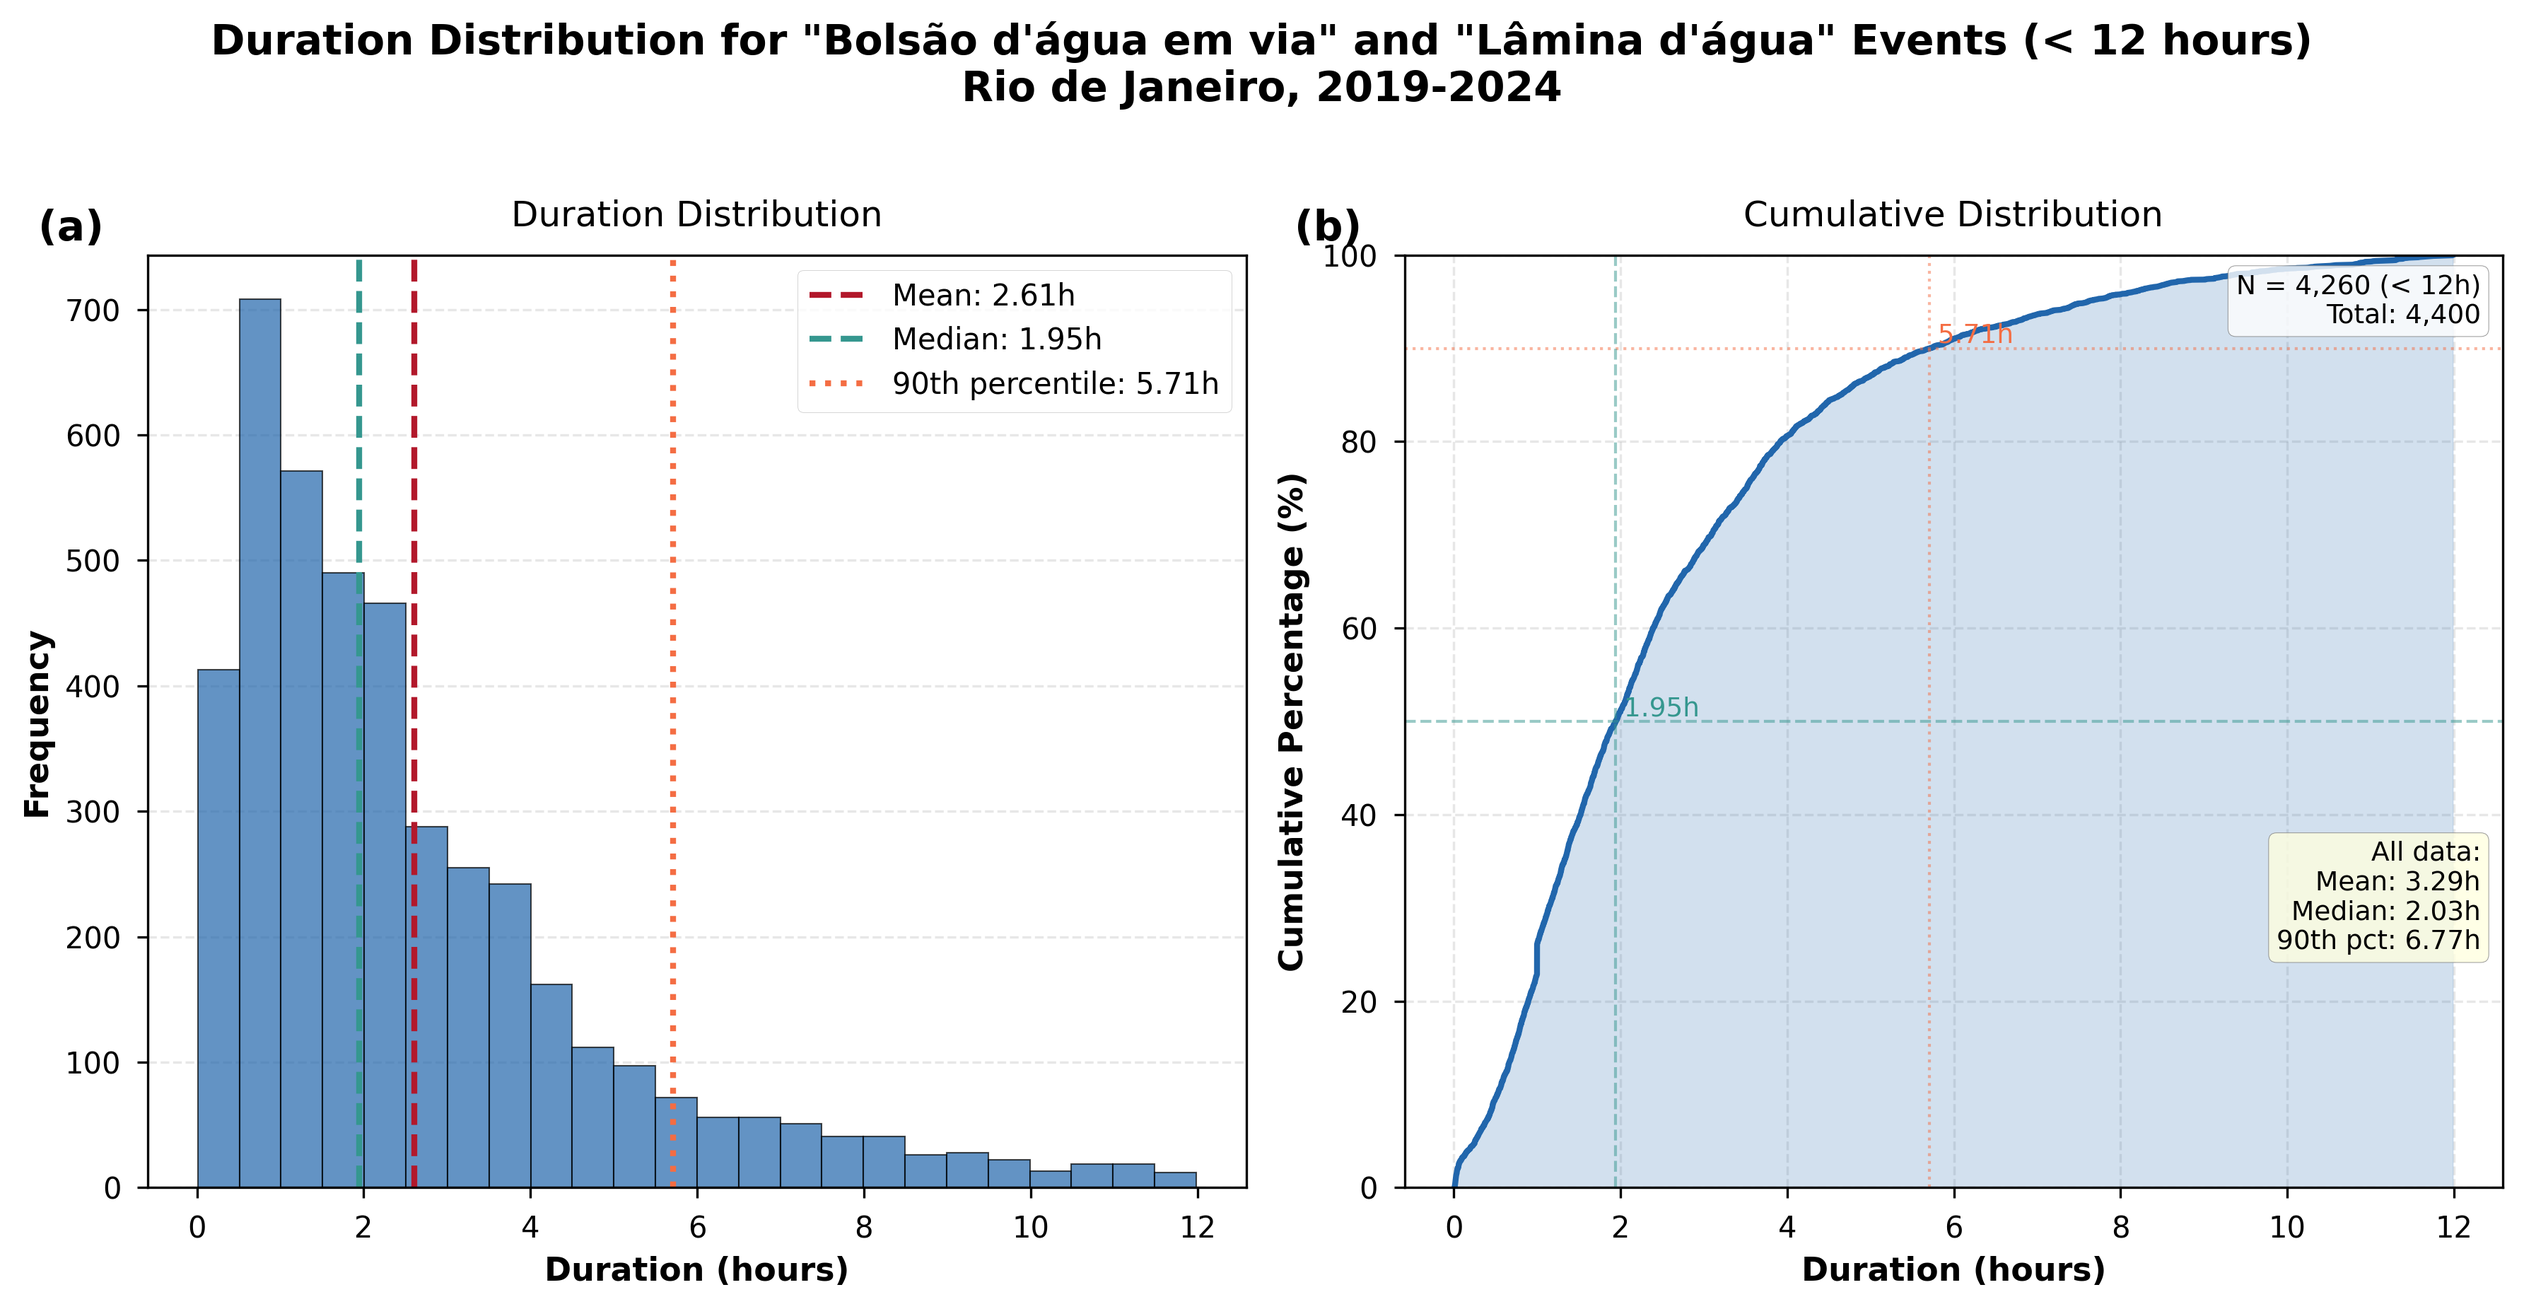
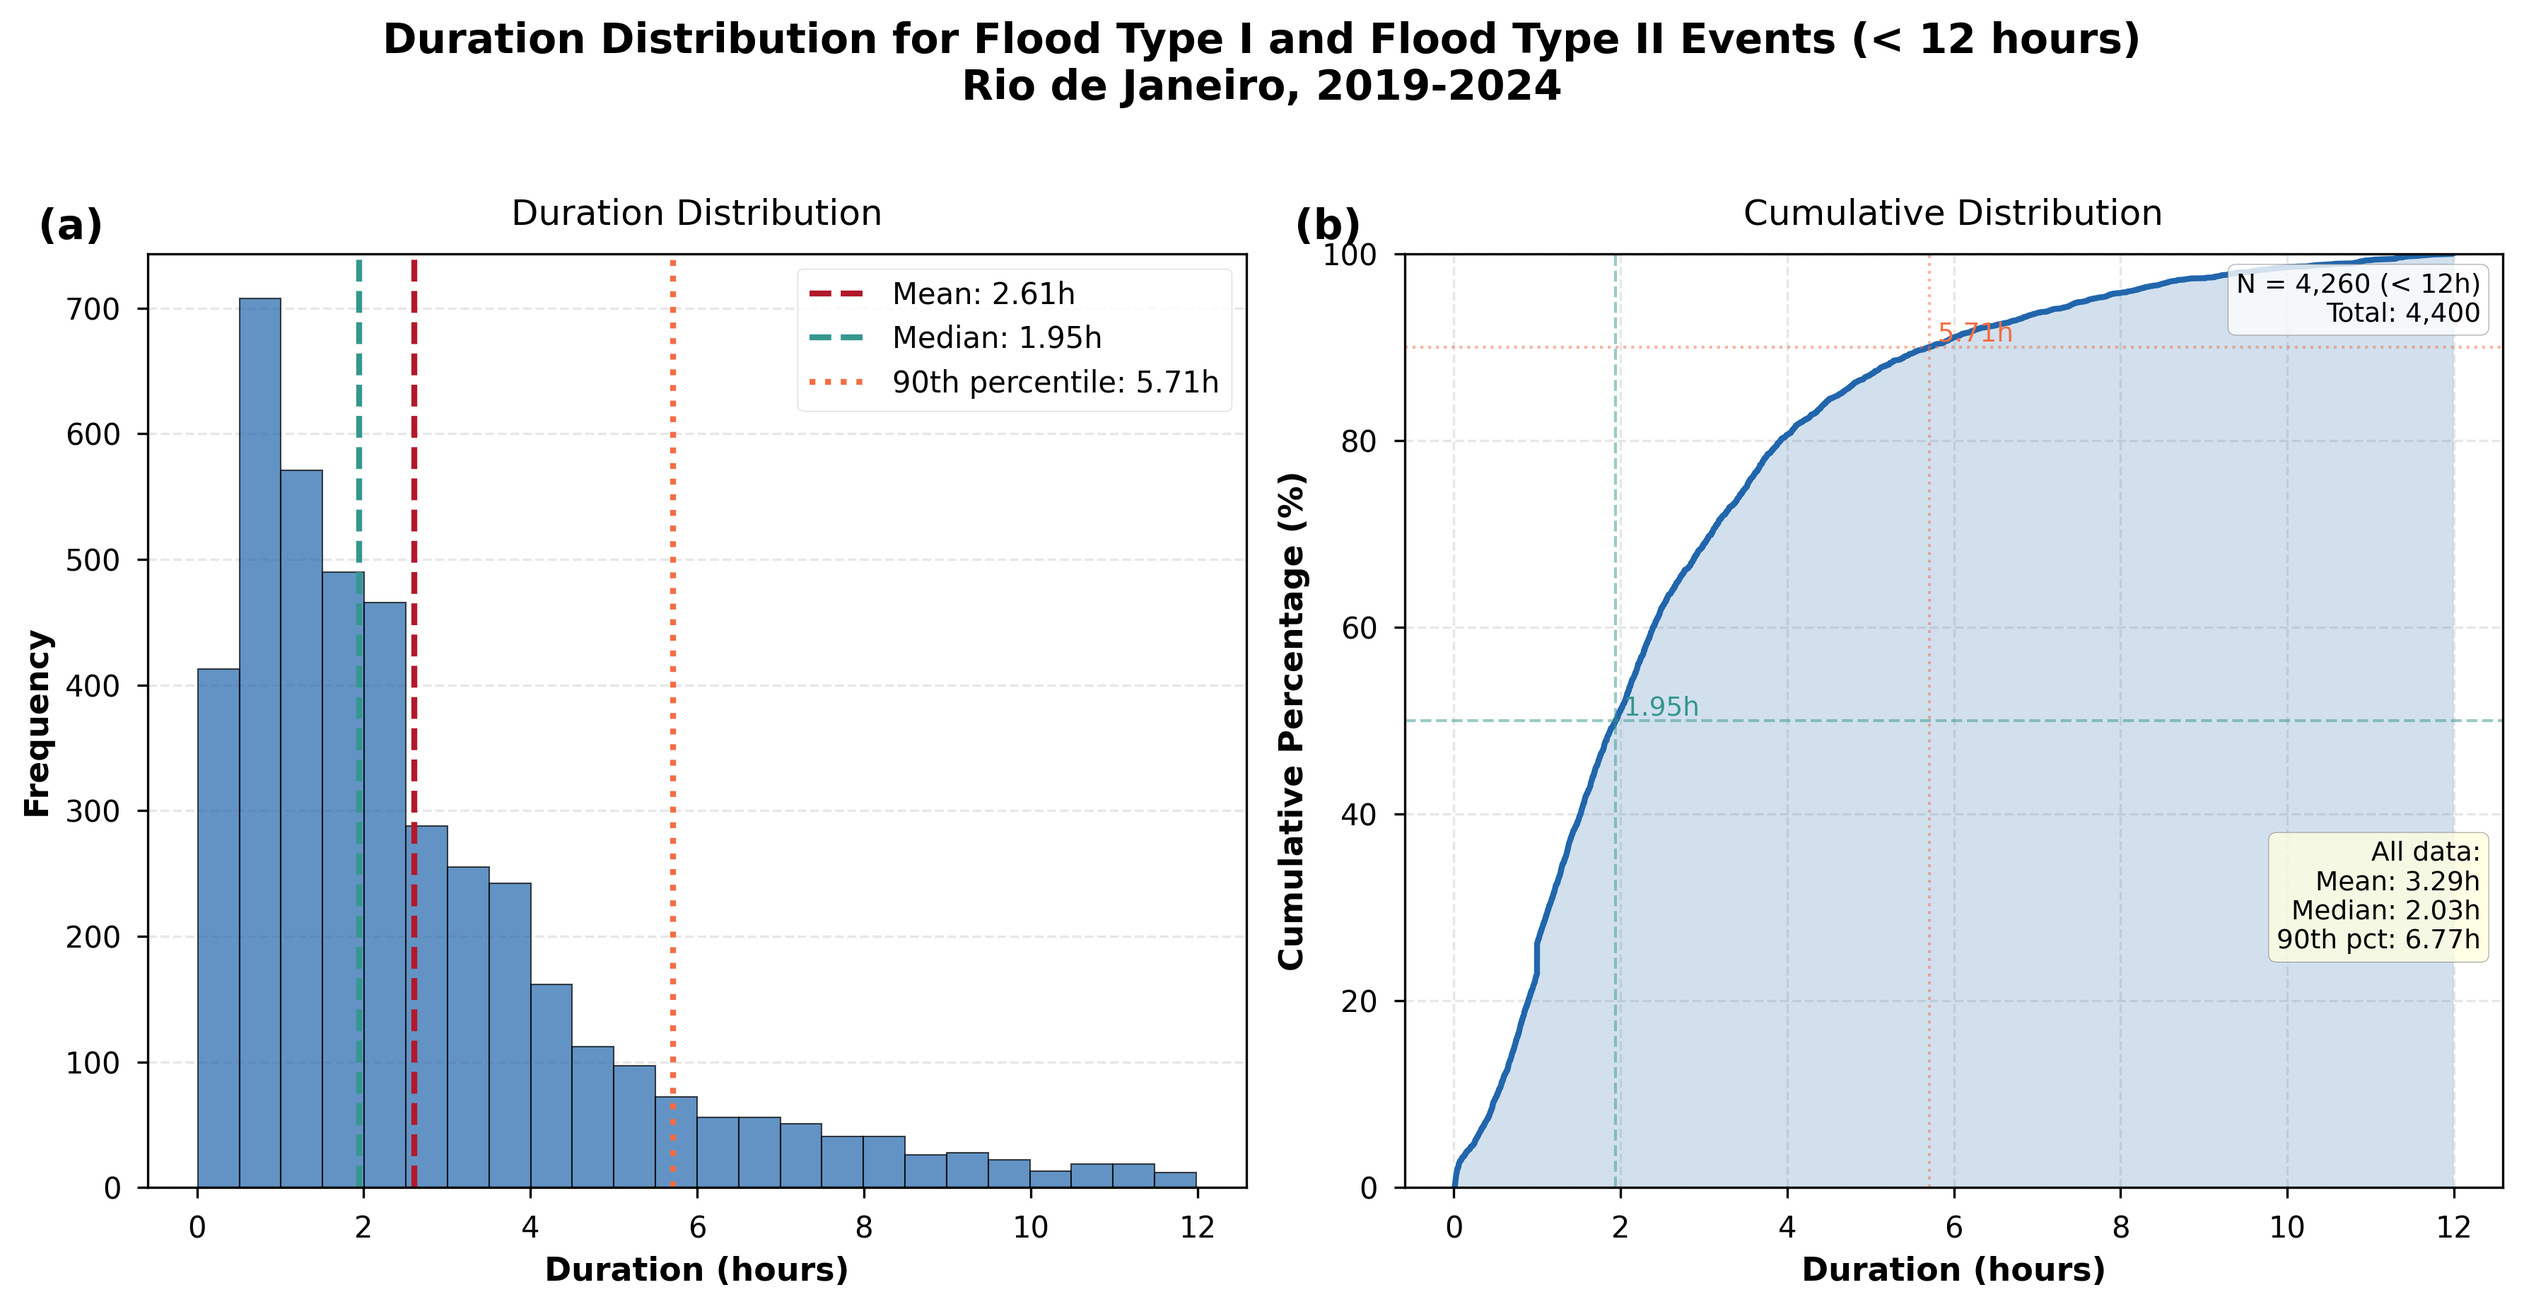
Enhance flood event analysis by integrating generic type mapping
- Updated multiple chart scripts to include a new `GENERIC_TYPE_MAPPING` for consistent flood type categorization across visualizations.
- Adjusted data preparation in scripts: `chart_01_event_types.py`, `chart_02_temporal_patterns.py`, `chart_03_hourly_distribution.py`, `chart_04_spatial_coverage.py`, `chart_05_hourly_by_season.py`, `chart_06_duration_distribution.py`, `chart_07_duration_by_type.py`, `chart_07a_duration_by_type.py`, `chart_07b_duration_by_season.py`, `chart_08_duration_categories.py`, `chart_09_duration_distribution_by_type.py`, and `chart_10_duration_categories_by_type.py`.
- Updated binary chart files to reflect the latest changes in the scripts.

diff --git a/scripts/charts/v1/chart_10_duration_categories_by_type.py b/scripts/charts/v1/chart_10_duration_categories_by_type.py
@@ -1,8 +1,8 @@
 """
 Chart 10: Event Duration Categories by Type
 Based on Chart 8 - generates two charts:
-1. Combined chart for "Lâmina d'água" and "Bolsão d'água em via"
-2. Single chart for "Alagamento"
+1. Combined chart for Flood Type I and Flood Type II
+2. Single chart for Flood Type III
 Each chart shows distribution of events by duration categories
 """
 
@@ -15,7 +15,7 @@ import sys
 sys.path.insert(0, os.path.dirname(__file__))
 from config import (setup_plot_style, COLORS, FONT_SIZES, FIGURE_SIZES,
                     DATA_PATHS, OUTPUT_DIR, FLOOD_TYPES, EVENT_TYPE_MAPPING,
-                    STUDY_PERIOD, STUDY_LOCATION, add_sample_size_annotation)
+                    GENERIC_TYPE_MAPPING, STUDY_PERIOD, STUDY_LOCATION, add_sample_size_annotation)
 
 def load_and_prepare_data():
     """Load and preprocess flood event data with duration calculation"""
@@ -28,6 +28,7 @@ def load_and_prepare_data():
     
     ocorrencias = ocorrencias[ocorrencias['tipo'].isin(FLOOD_TYPES)]
     ocorrencias['tipo'] = ocorrencias['tipo'].replace(EVENT_TYPE_MAPPING)
+    ocorrencias['tipo'] = ocorrencias['tipo'].replace(GENERIC_TYPE_MAPPING)
     
     # Calculate duration in hours
     ocorrencias['duration_hours'] = (ocorrencias['data_fim'] - ocorrencias['data_inicio']).dt.total_seconds() / 3600
@@ -137,16 +138,16 @@ def main():
     
     os.makedirs(OUTPUT_DIR, exist_ok=True)
     
-    # Define chart groups
+    # Define chart groups (using generic names)
     chart_groups = [
         {
-            'types': ["Bolsão d'água em via", "Lâmina d'água"],
-            'title': '"Bolsão d\'água em via" and "Lâmina d\'água" Events',
+            'types': ['Flood Type I', 'Flood Type II'],
+            'title': 'Flood Type I and Flood Type II Events',
             'filename': 'bolsao_and_lamina'
         },
         {
-            'types': ['Alagamento'],
-            'title': '"Alagamento" Events',
+            'types': ['Flood Type III'],
+            'title': 'Flood Type III Events',
             'filename': 'alagamento'
         }
     ]

diff --git a/scripts/charts/v1/chart_09_duration_distribution_by_type.py b/scripts/charts/v1/chart_09_duration_distribution_by_type.py
@@ -1,8 +1,8 @@
 """
 Chart 9: Event Duration Distribution by Type
 Based on Chart 6a - generates two charts:
-1. Combined chart for "Lâmina d'água" and "Bolsão d'água em via"
-2. Single chart for "Alagamento"
+1. Combined chart for Flood Type I and Flood Type II
+2. Single chart for Flood Type III
 Each chart shows histogram and CDF for events < 12 hours
 """
 
@@ -16,7 +16,7 @@ import sys
 sys.path.insert(0, os.path.dirname(__file__))
 from config import (setup_plot_style, COLORS, FONT_SIZES, FIGURE_SIZES,
                     DATA_PATHS, OUTPUT_DIR, FLOOD_TYPES, EVENT_TYPE_MAPPING,
-                    STUDY_PERIOD, STUDY_LOCATION, add_sample_size_annotation,
+                    GENERIC_TYPE_MAPPING, STUDY_PERIOD, STUDY_LOCATION, add_sample_size_annotation,
                     add_subfigure_label, ALPHA)
 
 def load_and_prepare_data():
@@ -30,6 +30,7 @@ def load_and_prepare_data():
     
     ocorrencias = ocorrencias[ocorrencias['tipo'].isin(FLOOD_TYPES)]
     ocorrencias['tipo'] = ocorrencias['tipo'].replace(EVENT_TYPE_MAPPING)
+    ocorrencias['tipo'] = ocorrencias['tipo'].replace(GENERIC_TYPE_MAPPING)
     
     # Calculate duration in hours
     ocorrencias['duration_hours'] = (ocorrencias['data_fim'] - ocorrencias['data_inicio']).dt.total_seconds() / 3600
@@ -164,16 +165,16 @@ def main():
     
     os.makedirs(OUTPUT_DIR, exist_ok=True)
     
-    # Define chart groups
+    # Define chart groups (using generic names)
     chart_groups = [
         {
-            'types': ["Bolsão d'água em via", "Lâmina d'água"],
-            'title': '"Bolsão d\'água em via" and "Lâmina d\'água" Events',
+            'types': ['Flood Type I', 'Flood Type II'],
+            'title': 'Flood Type I and Flood Type II Events',
             'filename': 'bolsao_and_lamina'
         },
         {
-            'types': ['Alagamento'],
-            'title': '"Alagamento" Events',
+            'types': ['Flood Type III'],
+            'title': 'Flood Type III Events',
             'filename': 'alagamento'
         }
     ]

diff --git a/scripts/charts/v1/chart_08_duration_categories.py b/scripts/charts/v1/chart_08_duration_categories.py
@@ -13,7 +13,7 @@ import sys
 sys.path.insert(0, os.path.dirname(__file__))
 from config import (setup_plot_style, COLORS, FONT_SIZES, FIGURE_SIZES,
                     DATA_PATHS, OUTPUT_DIR, FLOOD_TYPES, EVENT_TYPE_MAPPING,
-                    STUDY_PERIOD, STUDY_LOCATION, add_sample_size_annotation)
+                    GENERIC_TYPE_MAPPING, STUDY_PERIOD, STUDY_LOCATION, add_sample_size_annotation)
 
 def load_and_prepare_data():
     """Load and preprocess flood event data with duration calculation"""
@@ -26,6 +26,7 @@ def load_and_prepare_data():
     
     ocorrencias = ocorrencias[ocorrencias['tipo'].isin(FLOOD_TYPES)]
     ocorrencias['tipo'] = ocorrencias['tipo'].replace(EVENT_TYPE_MAPPING)
+    ocorrencias['tipo'] = ocorrencias['tipo'].replace(GENERIC_TYPE_MAPPING)
     
     # Calculate duration in hours
     ocorrencias['duration_hours'] = (ocorrencias['data_fim'] - ocorrencias['data_inicio']).dt.total_seconds() / 3600

diff --git a/scripts/charts/v1/chart_06_duration_distribution.py b/scripts/charts/v1/chart_06_duration_distribution.py
@@ -15,7 +15,7 @@ import sys
 sys.path.insert(0, os.path.dirname(__file__))
 from config import (setup_plot_style, COLORS, FONT_SIZES, FIGURE_SIZES,
                     DATA_PATHS, OUTPUT_DIR, FLOOD_TYPES, EVENT_TYPE_MAPPING,
-                    STUDY_PERIOD, STUDY_LOCATION, add_sample_size_annotation,
+                    GENERIC_TYPE_MAPPING, STUDY_PERIOD, STUDY_LOCATION, add_sample_size_annotation,
                     add_subfigure_label, ALPHA)
 
 def load_and_prepare_data():
@@ -29,6 +29,7 @@ def load_and_prepare_data():
     
     ocorrencias = ocorrencias[ocorrencias['tipo'].isin(FLOOD_TYPES)]
     ocorrencias['tipo'] = ocorrencias['tipo'].replace(EVENT_TYPE_MAPPING)
+    ocorrencias['tipo'] = ocorrencias['tipo'].replace(GENERIC_TYPE_MAPPING)
     
     # Calculate duration in hours
     ocorrencias['duration_hours'] = (ocorrencias['data_fim'] - ocorrencias['data_inicio']).dt.total_seconds() / 3600

diff --git a/scripts/charts/v1/chart_07_duration_by_type.py b/scripts/charts/v1/chart_07_duration_by_type.py
@@ -14,7 +14,7 @@ import sys
 sys.path.insert(0, os.path.dirname(__file__))
 from config import (setup_plot_style, COLORS, FONT_SIZES, FIGURE_SIZES,
                     DATA_PATHS, OUTPUT_DIR, FLOOD_TYPES, EVENT_TYPE_MAPPING,
-                    STUDY_PERIOD, STUDY_LOCATION, add_sample_size_annotation,
+                    GENERIC_TYPE_MAPPING, STUDY_PERIOD, STUDY_LOCATION, add_sample_size_annotation,
                     add_subfigure_label, ALPHA)
 
 def load_and_prepare_data():
@@ -28,6 +28,7 @@ def load_and_prepare_data():
     
     ocorrencias = ocorrencias[ocorrencias['tipo'].isin(FLOOD_TYPES)]
     ocorrencias['tipo'] = ocorrencias['tipo'].replace(EVENT_TYPE_MAPPING)
+    ocorrencias['tipo'] = ocorrencias['tipo'].replace(GENERIC_TYPE_MAPPING)
     
     # Calculate duration in hours
     ocorrencias['duration_hours'] = (ocorrencias['data_fim'] - ocorrencias['data_inicio']).dt.total_seconds() / 3600

diff --git a/scripts/charts/v1/chart_07a_duration_by_type.py b/scripts/charts/v1/chart_07a_duration_by_type.py
@@ -14,7 +14,7 @@ import sys
 sys.path.insert(0, os.path.dirname(__file__))
 from config import (setup_plot_style, COLORS, FONT_SIZES, FIGURE_SIZES,
                     DATA_PATHS, OUTPUT_DIR, FLOOD_TYPES, EVENT_TYPE_MAPPING,
-                    STUDY_PERIOD, STUDY_LOCATION, add_sample_size_annotation,
+                    GENERIC_TYPE_MAPPING, STUDY_PERIOD, STUDY_LOCATION, add_sample_size_annotation,
                     add_subfigure_label, ALPHA)
 
 def load_and_prepare_data():
@@ -28,6 +28,7 @@ def load_and_prepare_data():
     
     ocorrencias = ocorrencias[ocorrencias['tipo'].isin(FLOOD_TYPES)]
     ocorrencias['tipo'] = ocorrencias['tipo'].replace(EVENT_TYPE_MAPPING)
+    ocorrencias['tipo'] = ocorrencias['tipo'].replace(GENERIC_TYPE_MAPPING)
     
     # Calculate duration in hours
     ocorrencias['duration_hours'] = (ocorrencias['data_fim'] - ocorrencias['data_inicio']).dt.total_seconds() / 3600

diff --git a/scripts/charts/v1/chart_07b_duration_by_season.py b/scripts/charts/v1/chart_07b_duration_by_season.py
@@ -14,7 +14,7 @@ import sys
 sys.path.insert(0, os.path.dirname(__file__))
 from config import (setup_plot_style, COLORS, FONT_SIZES, FIGURE_SIZES,
                     DATA_PATHS, OUTPUT_DIR, FLOOD_TYPES, EVENT_TYPE_MAPPING,
-                    STUDY_PERIOD, STUDY_LOCATION, add_sample_size_annotation,
+                    GENERIC_TYPE_MAPPING, STUDY_PERIOD, STUDY_LOCATION, add_sample_size_annotation,
                     add_subfigure_label, ALPHA)
 
 def load_and_prepare_data():
@@ -28,6 +28,7 @@ def load_and_prepare_data():
     
     ocorrencias = ocorrencias[ocorrencias['tipo'].isin(FLOOD_TYPES)]
     ocorrencias['tipo'] = ocorrencias['tipo'].replace(EVENT_TYPE_MAPPING)
+    ocorrencias['tipo'] = ocorrencias['tipo'].replace(GENERIC_TYPE_MAPPING)
     
     # Calculate duration in hours
     ocorrencias['duration_hours'] = (ocorrencias['data_fim'] - ocorrencias['data_inicio']).dt.total_seconds() / 3600

diff --git a/scripts/charts/v1/chart_04_spatial_coverage.py b/scripts/charts/v1/chart_04_spatial_coverage.py
@@ -14,7 +14,7 @@ import sys
 sys.path.insert(0, os.path.dirname(__file__))
 from config import (setup_plot_style, COLORS, FONT_SIZES, FIGURE_SIZES,
                     DATA_PATHS, OUTPUT_DIR, FLOOD_TYPES, EVENT_TYPE_MAPPING,
-                    STUDY_PERIOD, STUDY_LOCATION, add_sample_size_annotation,
+                    GENERIC_TYPE_MAPPING, STUDY_PERIOD, STUDY_LOCATION, add_sample_size_annotation,
                     add_subfigure_label, CRS_GEOGRAPHIC, CRS_PROJECTED)
 
 def load_and_prepare_data():
@@ -29,6 +29,7 @@ def load_and_prepare_data():
     
     ocorrencias = ocorrencias[ocorrencias['tipo'].isin(FLOOD_TYPES)]
     ocorrencias['tipo'] = ocorrencias['tipo'].replace(EVENT_TYPE_MAPPING)
+    ocorrencias['tipo'] = ocorrencias['tipo'].replace(GENERIC_TYPE_MAPPING)
     
     return ocorrencias, stations
 

diff --git a/scripts/charts/v1/chart_03_hourly_distribution.py b/scripts/charts/v1/chart_03_hourly_distribution.py
@@ -13,7 +13,7 @@ import sys
 sys.path.insert(0, os.path.dirname(__file__))
 from config import (setup_plot_style, COLORS, FONT_SIZES, FIGURE_SIZES,
                     DATA_PATHS, OUTPUT_DIR, FLOOD_TYPES, EVENT_TYPE_MAPPING,
-                    STUDY_PERIOD, STUDY_LOCATION, add_sample_size_annotation, ALPHA)
+                    GENERIC_TYPE_MAPPING, STUDY_PERIOD, STUDY_LOCATION, add_sample_size_annotation, ALPHA)
 
 def load_and_prepare_data():
     """Load and preprocess flood event data"""
@@ -26,6 +26,7 @@ def load_and_prepare_data():
     
     ocorrencias = ocorrencias[ocorrencias['tipo'].isin(FLOOD_TYPES)]
     ocorrencias['tipo'] = ocorrencias['tipo'].replace(EVENT_TYPE_MAPPING)
+    ocorrencias['tipo'] = ocorrencias['tipo'].replace(GENERIC_TYPE_MAPPING)
     
     return ocorrencias
 

diff --git a/scripts/charts/v1/chart_01_event_types.py b/scripts/charts/v1/chart_01_event_types.py
@@ -14,7 +14,7 @@ import sys
 sys.path.insert(0, os.path.dirname(__file__))
 from config import (setup_plot_style, COLORS, FONT_SIZES, FIGURE_SIZES,
                     DATA_PATHS, OUTPUT_DIR, FLOOD_TYPES, EVENT_TYPE_MAPPING,
-                    STUDY_PERIOD, STUDY_LOCATION, add_sample_size_annotation)
+                    GENERIC_TYPE_MAPPING, STUDY_PERIOD, STUDY_LOCATION, add_sample_size_annotation)
 
 def load_and_prepare_data():
     """Load and preprocess flood event data"""
@@ -32,6 +32,9 @@ def load_and_prepare_data():
     
     # Consolidate event types
     ocorrencias['tipo'] = ocorrencias['tipo'].replace(EVENT_TYPE_MAPPING)
+    
+    # Apply generic category mapping
+    ocorrencias['tipo'] = ocorrencias['tipo'].replace(GENERIC_TYPE_MAPPING)
     
     return ocorrencias
 

diff --git a/scripts/charts/v1/chart_02_temporal_patterns.py b/scripts/charts/v1/chart_02_temporal_patterns.py
@@ -15,7 +15,7 @@ import sys
 sys.path.insert(0, os.path.dirname(__file__))
 from config import (setup_plot_style, COLORS, FONT_SIZES, FIGURE_SIZES,
                     DATA_PATHS, OUTPUT_DIR, FLOOD_TYPES, EVENT_TYPE_MAPPING,
-                    STUDY_PERIOD, STUDY_LOCATION, add_sample_size_annotation,
+                    GENERIC_TYPE_MAPPING, STUDY_PERIOD, STUDY_LOCATION, add_sample_size_annotation,
                     add_subfigure_label, ALPHA)
 
 def load_and_prepare_data():
@@ -29,6 +29,7 @@ def load_and_prepare_data():
     
     ocorrencias = ocorrencias[ocorrencias['tipo'].isin(FLOOD_TYPES)]
     ocorrencias['tipo'] = ocorrencias['tipo'].replace(EVENT_TYPE_MAPPING)
+    ocorrencias['tipo'] = ocorrencias['tipo'].replace(GENERIC_TYPE_MAPPING)
     
     return ocorrencias
 

diff --git a/scripts/charts/v1/chart_05_hourly_by_season.py b/scripts/charts/v1/chart_05_hourly_by_season.py
@@ -14,7 +14,7 @@ import sys
 sys.path.insert(0, os.path.dirname(__file__))
 from config import (setup_plot_style, COLORS, FONT_SIZES, FIGURE_SIZES,
                     DATA_PATHS, OUTPUT_DIR, FLOOD_TYPES, EVENT_TYPE_MAPPING,
-                    STUDY_PERIOD, STUDY_LOCATION, add_sample_size_annotation,
+                    GENERIC_TYPE_MAPPING, STUDY_PERIOD, STUDY_LOCATION, add_sample_size_annotation,
                     add_subfigure_label, ALPHA)
 
 def load_and_prepare_data():
@@ -28,6 +28,7 @@ def load_and_prepare_data():
     
     ocorrencias = ocorrencias[ocorrencias['tipo'].isin(FLOOD_TYPES)]
     ocorrencias['tipo'] = ocorrencias['tipo'].replace(EVENT_TYPE_MAPPING)
+    ocorrencias['tipo'] = ocorrencias['tipo'].replace(GENERIC_TYPE_MAPPING)
     
     return ocorrencias
 
